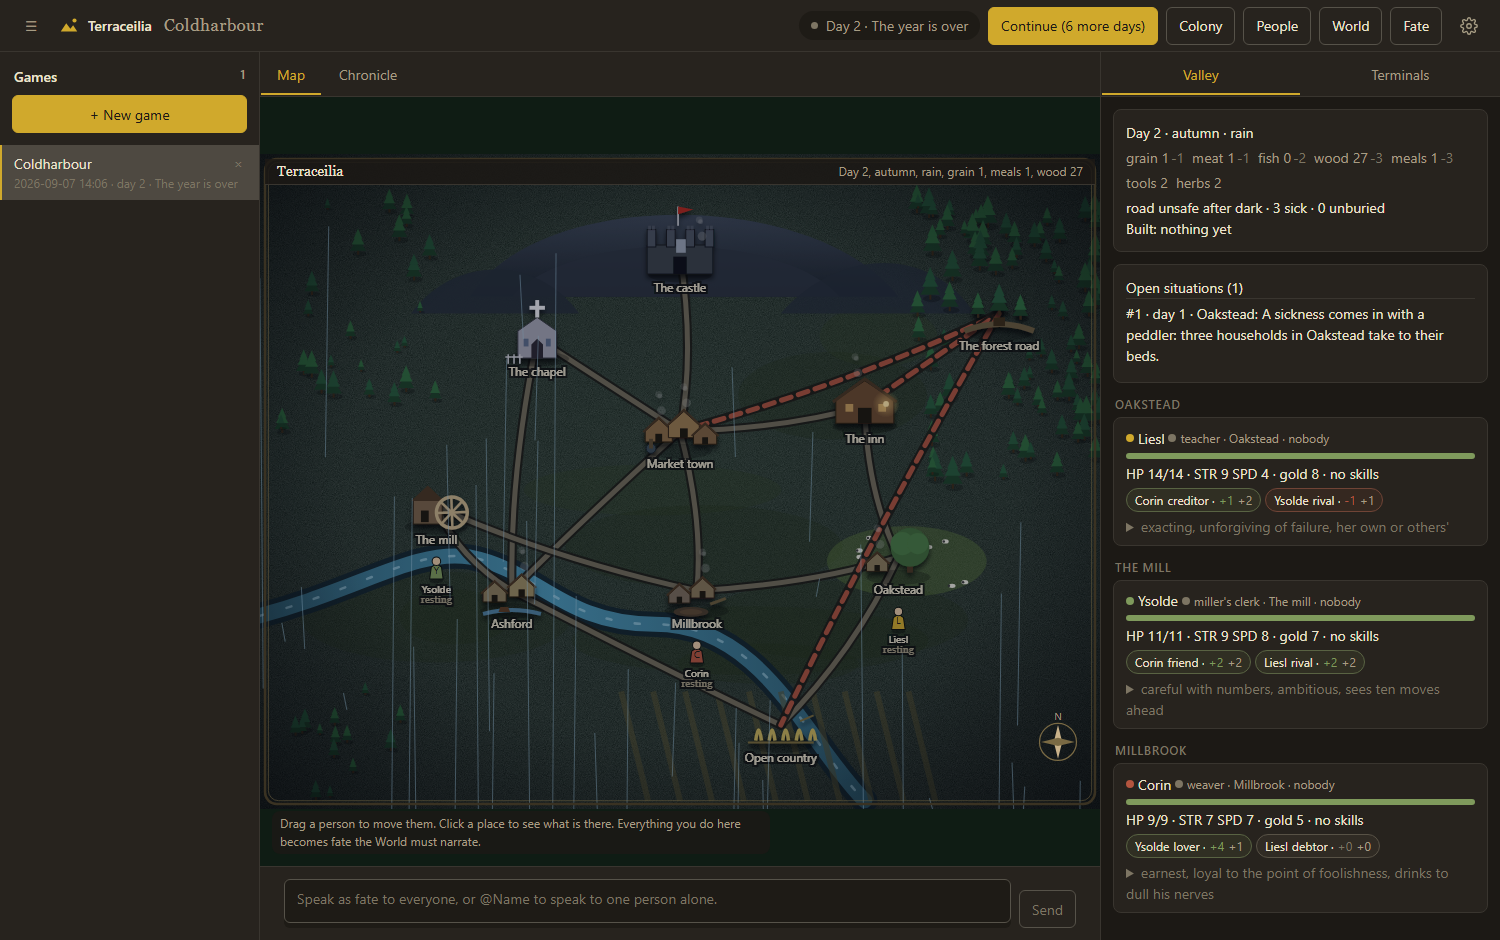
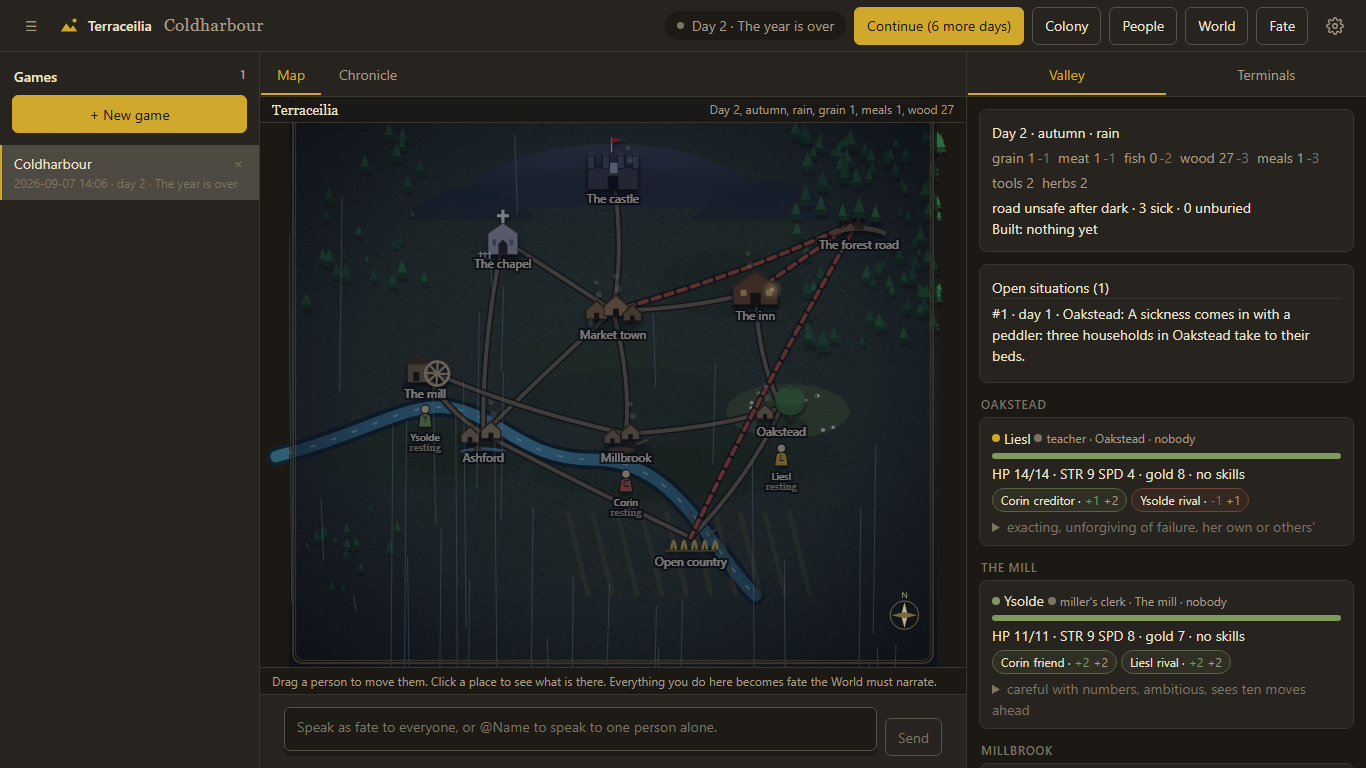
Desktop map fit: the box between the tabs and the fate box less the hint line, the whole map with its lowest people in view, checked in Chrome
The hint is one small line below the map's box, not an overlay on the art, and hidden on the phone, so the box is exactly
what is left between the Map and Chronicle tabs and the fate box. The map's coordinate space now runs on below the lowest
place, and the ground, frame, compass and weather follow it, so the people standing at the southernmost place and their
labels fit inside the box with the rest of the map. The fit is recomputed whenever the box changes size, which covers a
window resize and the rail or the right pane changing width. A headless Chrome check at 1366x768, 1920x1080 and 2560x1440
proves every place label and every token inside the box, the box under the tabs, the hint under the box, the fate box under
the hint, the page not scrolling, and the box widening when the rail closes.

Claude-Session: https://claude.ai/code/session_011m975X5bZNZjxXmbnbh6Db

diff --git a/frontend/map.js b/frontend/map.js
@@ -4,7 +4,9 @@ const MapView=(()=>{
  const NS='http://www.w3.org/2000/svg';const $=id=>document.getElementById(id);
  const esc=s=>String(s??'').replace(/&/g,'&amp;').replace(/</g,'&lt;').replace(/"/g,'&quot;');
  let built=false,drag=null,selected=null,S_=null,tokens={},hover=null,weather={},sky='day';
- const W=1000,H=780;let view={k:1,tx:0,ty:0};let pan=null;const pointers=new Map();let pinch=null;let U=1;
+ // the art is W by AH; the map's box, H tall, runs on below the lowest place so the people standing there and their labels stay in view
+ const W=1000,AH=780;let H=780;let view={k:1,tx:0,ty:0};
+ const contentBottom=m=>Math.max(AH,Math.max(0,...Object.values(m||{}).map(d=>+d.y||0))+200);let pan=null;const pointers=new Map();let pinch=null;let U=1;
  // screen pixels per map unit, as the map is scaled to fit its box; tokens and labels are counter scaled against it
  function unit(){const svg=$('mapSvg');if(!svg)return 1;const r=svg.getBoundingClientRect();if(!r.width||!r.height)return 1;return Math.min(r.width/W,r.height/H)}
  const tokScale=()=>Math.min(2.4,0.85/(view.k*U));
@@ -72,11 +74,11 @@ const MapView=(()=>{
 
  // ---------- terrain
  function terrain(svg,m,s){const g=el('g',{id:'terrain'},svg);const R=rng(11);const st=styleOf(s);
-  el('rect',{x:0,y:0,width:1000,height:780,fill:'url(#ground)'},g);el('rect',{x:0,y:0,width:1000,height:780,fill:'#000',filter:'url(#tex)',opacity:.55},g);
+  el('rect',{x:0,y:0,width:W,height:H,fill:'url(#ground)'},g);el('rect',{x:0,y:0,width:W,height:H,fill:'#000',filter:'url(#tex)',opacity:.55},g);
   const acc=(st.palette||{}).accent||'#5d7a3a';
   for(let i=0;i<9;i++)el('ellipse',{cx:150+R()*700,cy:200+R()*450,rx:60+R()*160,ry:20+R()*40,fill:R()>.5?shade(acc,.55):shade(acc,.4),opacity:.30},g);
   if(s&&s.map_generated)terrainGenerated(g,m,R,st);else terrainBuiltin(g,R);
-  el('rect',{x:0,y:0,width:1000,height:780,fill:'url(#vig)'},g)}
+  el('rect',{x:0,y:0,width:W,height:H,fill:'url(#vig)'},g)}
 
  function terrainBuiltin(g,R){
   el('path',{d:'M250 170 C330 40 660 40 760 170 Z',fill:'url(#hill)',opacity:.95},g);el('path',{d:'M300 170 C370 90 620 90 690 170 Z',fill:'#2c3340',opacity:.9},g);el('path',{d:'M180 190 C230 120 330 120 380 190 Z',fill:'#262d39',opacity:.9},g);el('path',{d:'M620 190 C690 110 800 110 850 190 Z',fill:'#262d39',opacity:.8},g);
@@ -165,6 +167,7 @@ const MapView=(()=>{
 
  // ---------- build
  function buildBase(s){const svg=$('mapSvg');svg.innerHTML='';const m=s.map;const st=styleOf(s);sky=st.sky||'day';
+  H=contentBottom(m);svg.setAttribute('viewBox',`0 0 ${W} ${H}`);
   defs(svg,st);
   // the space around a map that does not fill its box is the map's own ground, not the page
   svg.parentNode.style.background='';                                                          // a letterbox, when there is one, is the page
@@ -187,9 +190,9 @@ const MapView=(()=>{
   el('g',{id:'tokens'},vw);el('g',{id:'weather','clip-path':'url(#mapClip)'},vw);      // rain, snow and fog fall inside the map and nowhere else
   el('rect',{id:'night',x:0,y:0,width:W,height:H,fill:SKY[sky]?SKY[sky].tint:'#0a0f1e',opacity:0,'pointer-events':'none'},vw);
   el('g',{id:'tips'},vw);
-  const fr=el('g',{id:'frame','pointer-events':'none'},svg);el('rect',{x:6,y:6,width:988,height:768,rx:14,fill:'none',stroke:'#3a3222','stroke-width':3},fr);el('rect',{x:10,y:10,width:980,height:760,rx:12,fill:'none',stroke:'#7a6a44','stroke-width':1,opacity:.6},fr);
+  const fr=el('g',{id:'frame','pointer-events':'none'},svg);el('rect',{x:6,y:6,width:988,height:H-12,rx:14,fill:'none',stroke:'#3a3222','stroke-width':3},fr);el('rect',{x:10,y:10,width:980,height:H-20,rx:12,fill:'none',stroke:'#7a6a44','stroke-width':1,opacity:.6},fr);
   const dtl=$('dayTitle');if(dtl)dtl.textContent=s.map_name||'Terraceilia';
-  const cr=el('g',{transform:'translate(950,700)'},fr);el('circle',{r:22,fill:'none',stroke:'#7a6a44','stroke-width':1.5},cr);el('path',{d:'M0 -20 L5 0 L0 20 L-5 0 Z',fill:'#c9b28a'},cr);el('path',{d:'M-20 0 L0 5 L20 0 L0 -5 Z',fill:'#7a6a44'},cr);el('text',{y:-26,'text-anchor':'middle',class:'sub'},cr).textContent='N';
+  const cr=el('g',{transform:`translate(950,${H-80})`},fr);el('circle',{r:22,fill:'none',stroke:'#7a6a44','stroke-width':1.5},cr);el('path',{d:'M0 -20 L5 0 L0 20 L-5 0 Z',fill:'#c9b28a'},cr);el('path',{d:'M-20 0 L0 5 L20 0 L0 -5 Z',fill:'#7a6a44'},cr);el('text',{y:-26,'text-anchor':'middle',class:'sub'},cr).textContent='N';
   if(!svg._viewBound){svg._viewBound=true;bindView(svg);if(window.ResizeObserver)new ResizeObserver(()=>{if(view.user)applyView();else resetView()}).observe(svg.parentNode)}
   svg.addEventListener('click',()=>{if(pan&&pan.moved)return;selected=null;showPlace(S_)});view={k:1,tx:0,ty:0,user:false,homed:false};resetView();built=true;tokens={}}
 
@@ -261,8 +264,8 @@ const MapView=(()=>{
   if(sky==='ash')weather.fog=true;if(sky==='storm')weather.rain=true;
   const w=(s.weather||'');if(/snow|bitter/.test(w))weather.snow=true;if(/rain|storm/.test(w))weather.rain=true;if(w==='storm')weather.night=weather.night||false}
  function renderWeather(){const g=$('weather');if(!g)return;const key=JSON.stringify(weather)+sky;if(g.dataset.key===key)return;g.dataset.key=key;g.innerHTML='';const R=rng(3);
-  if(weather.snow){for(let i=0;i<70;i++){const x=R()*1000,y=R()*780;const f=el('circle',{cx:x,cy:y,r:1.2+R()*1.6,fill:'#fff',opacity:.7},g);el('animate',{attributeName:'cy',values:`${y};${y+780}`,dur:`${9+R()*8}s`,repeatCount:'indefinite'},f);el('animate',{attributeName:'cx',values:`${x};${x+30};${x-10};${x+20}`,dur:`${9+R()*8}s`,repeatCount:'indefinite'},f)}}
-  if(weather.rain){for(let i=0;i<60;i++){const x=R()*1000,y=R()*780;const l=el('line',{x1:x,y1:y,x2:x-4,y2:y+14,stroke:'#9fc7e0','stroke-width':1.2,opacity:.5},g);el('animate',{attributeName:'y1',values:`${y};${y+780}`,dur:`${1.2+R()*.8}s`,repeatCount:'indefinite'},l);el('animate',{attributeName:'y2',values:`${y+14};${y+794}`,dur:`${1.2+R()*.8}s`,repeatCount:'indefinite'},l)}}
+  if(weather.snow){for(let i=0;i<70;i++){const x=R()*1000,y=R()*H;const f=el('circle',{cx:x,cy:y,r:1.2+R()*1.6,fill:'#fff',opacity:.7},g);el('animate',{attributeName:'cy',values:`${y};${y+H}`,dur:`${9+R()*8}s`,repeatCount:'indefinite'},f);el('animate',{attributeName:'cx',values:`${x};${x+30};${x-10};${x+20}`,dur:`${9+R()*8}s`,repeatCount:'indefinite'},f)}}
+  if(weather.rain){for(let i=0;i<60;i++){const x=R()*1000,y=R()*H;const l=el('line',{x1:x,y1:y,x2:x-4,y2:y+14,stroke:'#9fc7e0','stroke-width':1.2,opacity:.5},g);el('animate',{attributeName:'y1',values:`${y};${y+H}`,dur:`${1.2+R()*.8}s`,repeatCount:'indefinite'},l);el('animate',{attributeName:'y2',values:`${y+14};${y+H+14}`,dur:`${1.2+R()*.8}s`,repeatCount:'indefinite'},l)}}
   if(weather.fog){const col=sky==='ash'?'#c9bda8':'#cfd8d6';for(let i=0;i<8;i++){const y=100+R()*600;const c=el('ellipse',{cx:R()*1000,cy:y,rx:180+R()*160,ry:24+R()*20,fill:col,opacity:sky==='ash'?.14:.10},g);el('animate',{attributeName:'cx',values:`${-200};${1200}`,dur:`${40+R()*30}s`,repeatCount:'indefinite'},c)}}
   if(weather.wolves){const m=wolfPlace(S_.map);if(m)for(let i=0;i<3;i++){const w=el('g',{transform:`translate(${m.x-60+i*50},${m.y+40})`},g);el('path',{d:'M-8 4 L-8 -2 L-3 -6 L6 -6 L10 -9 L12 -4 L8 -2 L8 4 Z',fill:'#5a5a62'},w);el('circle',{cx:9,cy:-6,r:1,fill:'#ff4d4d'},w);el('animateTransform',{attributeName:'transform',type:'translate',values:`${m.x-60+i*50} ${m.y+40};${m.x-40+i*50} ${m.y+46};${m.x-60+i*50} ${m.y+40}`,dur:`${3+i}s`,repeatCount:'indefinite'},w)}}}
  function renderFire(s){const fires=s.fires||{};document.querySelectorAll('.node').forEach(n=>{const fx=n.querySelector('.fx');fx.innerHTML='';const pl=n.dataset.place;if(!s.map[pl])return;

diff --git a/tests/map_fit_check.js b/tests/map_fit_check.js
@@ -1,0 +1,43 @@
+// Opens the served app in a private headless Chrome at each size given and reports, as one JSON line per size, whether every
+// place label and every token sits inside the map's box, the box sits between the tabs and the fate box with the hint line
+// below it, and the page does not scroll. Run by tests/test_desktop_fit.py.
+//   node map_fit_check.js <url> <chrome.exe> 1366x768 1920x1080 ...
+const {spawn} = require('child_process');
+const [url, chromePath, ...sizes] = process.argv.slice(2);
+const sleep = ms => new Promise(r => setTimeout(r, ms));
+const CHECK = `(()=>{
+  const R=e=>e.getBoundingClientRect();const box=R(document.getElementById('map'));
+  const inside=r=>r.width>0&&r.left>=box.left-0.5&&r.right<=box.right+0.5&&r.top>=box.top-0.5&&r.bottom<=box.bottom+0.5;
+  const labels=[...document.querySelectorAll('.node text.nm')].map(e=>({n:e.textContent,ok:inside(R(e))}));
+  const toks=[...document.querySelectorAll('.tok')].map(e=>({n:e.dataset.name,ok:inside(R(e))}));
+  const tabs=R(document.getElementById('centerTabs')),hint=R(document.getElementById('mapHint')),fate=R(document.getElementById('composer'));
+  const de=document.documentElement;
+  return JSON.stringify({w:innerWidth,h:innerHeight,box:[box.top,box.bottom,box.left,box.right],tabsBottom:tabs.bottom,hint:[hint.top,hint.bottom,hint.height,getComputedStyle(document.getElementById('mapHint')).display],fateTop:fate.top,
+    labels,toks,badLabels:labels.filter(x=>!x.ok).map(x=>x.n),badToks:toks.filter(x=>!x.ok).map(x=>x.n),
+    scroll:[de.scrollWidth,de.clientWidth,de.scrollHeight,de.clientHeight,scrollX,scrollY],view:MapView.view().k})})()`;
+(async () => {
+  for (const sz of sizes) {
+    const [w, h] = sz.split('x').map(Number); const port = 9400 + Math.floor(Math.random() * 300);
+    const chrome = spawn(chromePath, ['--headless=new', '--disable-gpu', '--hide-scrollbars', `--remote-debugging-port=${port}`, '--no-first-run', '--no-default-browser-check',
+      `--user-data-dir=${process.env.TEMP || '/tmp'}/terra-fitcheck-${process.pid}-${w}`, `--window-size=${w},${h}`, 'about:blank'], {stdio: 'ignore'});
+    try {
+      let list = null;
+      for (let i = 0; i < 80 && !list; i++) { try { list = await (await fetch(`http://127.0.0.1:${port}/json`)).json(); } catch (e) { await sleep(250); } }
+      if (!list) throw new Error('chrome did not open its debugging port');
+      const page = list.find(t => t.type === 'page'); const ws = new WebSocket(page.webSocketDebuggerUrl);
+      let id = 0; const pending = {};
+      ws.onmessage = e => { const m = JSON.parse(e.data); if (m.id && pending[m.id]) { pending[m.id](m.result || m.error); delete pending[m.id]; } };
+      const send = (method, params = {}) => new Promise(r => { const i = ++id; pending[i] = r; ws.send(JSON.stringify({id: i, method, params})); });
+      await new Promise(r => ws.onopen = r);
+      await send('Emulation.setDeviceMetricsOverride', {width: w, height: h, deviceScaleFactor: 1, mobile: false});
+      await send('Runtime.enable'); await send('Page.enable'); await send('Page.navigate', {url}); await sleep(5000);
+      const ev = async () => { const r = await send('Runtime.evaluate', {expression: CHECK, returnByValue: true}); return JSON.parse(r.result.value); };
+      const first = await ev();
+      // the left rail closes: the box widens and the fit is recomputed
+      await send('Runtime.evaluate', {expression: "document.getElementById('railBtn').click();'ok'", returnByValue: true}); await sleep(700);
+      const second = await ev();
+      console.log(JSON.stringify({size: sz, open: first, railClosed: second}));
+      ws.close();
+    } finally { chrome.kill(); }
+  }
+})().catch(e => { console.error(e); process.exit(1); });

diff --git a/frontend/style.css b/frontend/style.css
@@ -126,8 +126,11 @@ table.st{border-collapse:collapse;font-size:var(--fs-b);margin-top:var(--u)}tabl
 .tok circle.ring{fill:none;stroke-width:2;opacity:0}.tok.thinking circle.ring{opacity:1;animation:tring 1.4s ease-out infinite}@keyframes tring{0%{r:12;opacity:.9}100%{r:26;opacity:0}}
 .tok text.ini{fill:var(--bg);font:400 var(--fs-s) Inter,system-ui,sans-serif;pointer-events:none}.tok text.lbl{fill:var(--ink);font:var(--fs-s) Inter,system-ui,sans-serif;pointer-events:none}
 .tip rect{fill:var(--panel);stroke:var(--edge)}.tip text{fill:var(--ink);font:var(--fs-s) Inter,system-ui,sans-serif}
-#mapHud{position:absolute;bottom:12px;left:12px;right:330px;display:flex;gap:var(--u);align-items:center;pointer-events:none}#mapHud>*{pointer-events:auto}
+#mapHud{position:absolute;bottom:12px;left:12px;right:330px;display:flex;gap:var(--u);align-items:center;justify-content:flex-end;pointer-events:none}#mapHud>*{pointer-events:auto}
 #mapHud .note{background:color-mix(in srgb,var(--bg) 80%,transparent);padding:calc(var(--u) / 2) var(--u);border-radius:8px}
+/* the hint is one small line below the map's box, never over the art; the box is what is left between the tabs and the fate box */
+#mapHint{display:none;flex:0 0 auto;padding:calc(var(--u) / 2) calc(var(--u) * 1.5);font-size:var(--fs-s);color:var(--muted);border-top:1px solid var(--line);white-space:nowrap;overflow:hidden;text-overflow:ellipsis}
+#map.on+#mapHint{display:block}
 #placePanel{position:absolute;right:12px;bottom:12px;width:300px;background:var(--panel);border:1px solid var(--edge);border-radius:12px;padding:calc(var(--u) * 1.5);display:none;font-size:var(--fs-b)}#placePanel.open{display:block}
 #placePanel h3{margin:0 0 calc(var(--u) / 2);font-size:var(--fs-b);display:flex;justify-content:space-between;align-items:center}#placePanel h3 button{height:26px;width:26px;padding:0}
 #placePanel .fx{display:flex;justify-content:space-between;align-items:center;padding:calc(var(--u) / 2) 0;border-top:1px solid var(--line)}#placePanel .fx.gone span{text-decoration:line-through;color:var(--faint)}
@@ -251,7 +254,7 @@ table.st{border-collapse:collapse;font-size:var(--fs-b);margin-top:var(--u)}tabl
  #rail.on{display:flex;flex:1 1 auto;min-height:0;border:0}#side.on{display:flex;flex:1 1 auto;min-height:0;border:0}#chron.on{display:block;flex:1 1 auto;min-height:0;overflow:auto}#setup.on{display:block;flex:1 1 auto;min-height:0;overflow:auto}
  .inner{width:calc(100% - 24px)}.two,.three{grid-template-columns:1fr}
  #tabs{display:flex;flex:0 0 56px;background:var(--panel);border-top:1px solid var(--line)}#tabs button{flex:1;height:56px;font-size:var(--fs-b)}
- #mapHud{right:12px;bottom:8px}#mapHud .note{font-size:var(--fs-s)}#mapHud .note:first-child{display:none}
+ #mapHud{right:12px;bottom:8px;left:12px}#mapHud .note{font-size:var(--fs-s)}#mapHint,#map.on+#mapHint{display:none}
  .sheetwrap{justify-content:stretch}.sheetwrap .panel{width:100%;max-width:100vw;padding:calc(var(--u) * 2)}#gearBtn{display:inline-grid}
  #placePanel{left:12px;right:12px;width:auto}
  #peoPick{display:block}.pg,.pg3,.pg4,.hgrid,.dgrid,.dutylist{grid-template-columns:1fr}.tie{grid-template-columns:1fr 1fr;gap:var(--u)}

diff --git a/frontend/index.html b/frontend/index.html
@@ -51,8 +51,9 @@
  </div></section>
 
  <section id="map"><div id="making"><div><div class="spin"></div><b id="makingHead">The World is making the valley</b><div class="note" style="margin-top:6px" id="makingNote">Rolling twenty lives, secrets, and grudges. This takes a minute or two. Watch the World's terminal on the right.</div></div></div><svg id="mapSvg" viewBox="0 0 1000 780" preserveAspectRatio="xMidYMid meet"></svg><div id="dayBar"><span id="dayTitle"></span><span id="dayText"></span></div>
-  <div id="mapHud"><span class="note">Drag a person to move them. Click a place to see what is there. Everything you do here becomes fate the World must narrate.</span><span class="note" id="godNote" style="margin-left:auto;display:none"></span><button type="button" class="btn" id="mapReset" style="display:none">Reset view</button></div>
+  <div id="mapHud"><span class="note" id="godNote" style="margin-left:auto;display:none"></span><button type="button" class="btn" id="mapReset" style="display:none">Reset view</button></div>
   <div id="placePanel"><h3><span id="ppName"></span><button class="icon" id="ppClose" aria-label="Close">&#10005;</button></h3><div id="ppDesc" class="note"></div><div id="ppFx"></div><div id="ppPres" class="note" style="margin-top:6px"></div><div id="ppWho" class="note" style="margin-top:6px"></div><div class="row" style="margin-top:10px"><button id="ppFire" class="danger solid">Set fire</button></div></div></section>
+ <div id="mapHint">Drag a person to move them. Click a place to see what is there. Everything you do here becomes fate the World must narrate.</div>
 
  <section id="chron"><div class="inner"><div class="empty" id="chronEmpty">The chronicle is empty. Press Start.</div><div id="msgs"></div><div class="typing" id="typing" style="display:none"></div></div></section>
  <div id="composer"><div class="inner"><div id="ac" role="listbox"></div><div class="tawrap"><div id="hl" aria-hidden="true"></div><textarea id="sayText" placeholder="Speak as fate to everyone, or @Name to speak to one person alone."></textarea></div><button id="sayBtn" class="primary">Send</button></div></div>

diff --git a/tests/test_desktop_fit.py b/tests/test_desktop_fit.py
@@ -1,0 +1,77 @@
+"""Desktop map fit, checked in a real headless Chrome: at 1366x768, 1920x1080 and 2560x1440 every place label and every token
+is inside the map's box, the box sits between the tabs and the fate box with the hint line below it, and the page does not
+scroll. The check also closes the left rail to see the fit recomputed. Skipped where Chrome or node is not installed.
+Run from the repo root:  python -m pytest tests -q"""
+from __future__ import annotations
+import json, os, random, shutil, subprocess, sys, tempfile, threading, unittest
+from http.server import ThreadingHTTPServer
+from pathlib import Path
+
+os.environ["TERRACEILIA_NO_TELEGRAM"] = "1"
+
+ROOT = Path(__file__).resolve().parent.parent
+sys.path.insert(0, str(ROOT / "backend"))
+import connect, engine, game, server  # noqa: E402
+
+CHROME = Path(os.environ.get("TERRA_CHROME") or r"C:\Program Files\Google\Chrome\Application\chrome.exe")
+SIZES = ["1366x768", "1920x1080", "2560x1440"]
+JS = (ROOT / "frontend" / "map.js").read_text(encoding="utf-8")
+CSS = (ROOT / "frontend" / "style.css").read_text(encoding="utf-8")
+HTML = (ROOT / "frontend" / "index.html").read_text(encoding="utf-8")
+
+
+def valley() -> engine.World:
+    """Four people, one of them at the southernmost place, so the lowest token is the one that matters."""
+    w = engine.World(); rng = random.Random(3); places = list(w.map); lowest = max(w.map, key=lambda p: w.map[p]["y"])
+    for i in range(4):
+        nm = ["Aldous", "Bett", "Cuthbert", "Dimity"][i]; c = engine.roll_character(nm, i + 1, rng, places); c["trade"] = "villager"
+        c["location"] = c["home"] = lowest if i < 2 else places[i]; c["voice"] = engine.roll_voice(c, rng); w.characters[nm] = c
+    w.ledger = engine.starting_ledger(4, len(w.map)); w.seed_places(); w.created = True; w.day = 2; w.seed_duties(rng); w.assign_day(rng)
+    return w
+
+
+class DesktopFit(unittest.TestCase):
+    def test_the_hint_is_a_line_below_the_box_and_the_box_is_what_is_left(self) -> None:
+        self.assertIn('<div id="mapHint">Drag a person to move them.', HTML); self.assertNotIn('<span class="note">Drag a person', HTML, "not an overlay on the art")
+        self.assertIn("#map.on+#mapHint{display:block}", CSS); self.assertIn("#mapHint,#map.on+#mapHint{display:none}", CSS[CSS.index("@media (max-width:820px)"):], "hidden on the phone")
+        self.assertIn("#mapHint{display:none;flex:0 0 auto;", CSS, "one line in the column, so the map's box is what is left above it")
+        self.assertIn("const contentBottom=m=>Math.max(AH,Math.max(0,...Object.values(m||{}).map(d=>+d.y||0))+200);", JS, "the box runs on below the lowest place for the people standing there")
+        self.assertIn("H=contentBottom(m);svg.setAttribute('viewBox',`0 0 ${W} ${H}`);", JS)
+        self.assertIn("new ResizeObserver(()=>{if(view.user)applyView();else resetView()})", JS, "the fit is recomputed whenever the box changes size")
+
+    def test_in_headless_chrome_at_three_sizes_everything_is_inside_the_box_and_the_page_does_not_scroll(self) -> None:
+        if not CHROME.exists() or not shutil.which("node"): self.skipTest("Chrome or node is not installed here")
+        tmp = Path(tempfile.mkdtemp(prefix="terra-fit-")); engine.GAMES = tmp; game.GAMES = tmp; server.GAMES = tmp
+        st, rv = connect.start, server.refresh_versions; connect.start = lambda: None; server.refresh_versions = lambda: None
+        try:
+            app = server.App(); g = app.run.g; g.draft = False; g.dir = tmp / g.id; g.world = valley(); w = g.world; g.title = "Fit check"
+            g.seats = [{"name": "World", "provider": "Claude Code", "model": "x", "color": "#d0a92c"}] + [{"name": n, "provider": "Claude Code", "model": "x", "color": "#7f9a5c"} for n in w.characters]
+            app.run._sync_terms(); g.save()
+            srv = ThreadingHTTPServer(("127.0.0.1", 0), server.make_handler(app, "fit")); port = srv.server_address[1]
+            th = threading.Thread(target=srv.serve_forever, daemon=True); th.start()
+            try:
+                r = subprocess.run(["node", str(ROOT / "tests" / "map_fit_check.js"), f"http://127.0.0.1:{port}/?token=fit", str(CHROME)] + SIZES, capture_output=True, text=True, timeout=240)
+            finally:
+                srv.shutdown(); srv.server_close()
+            self.assertEqual(r.returncode, 0, r.stderr)
+            rows = [json.loads(ln) for ln in r.stdout.splitlines() if ln.startswith("{")]
+            self.assertEqual([x["size"] for x in rows], SIZES)
+            lowest = max(w.map, key=lambda p: w.map[p]["y"])
+            for row in rows:
+                for state in ("open", "railClosed"):
+                    x = row[state]; tag = f"{row['size']} {state}"
+                    self.assertEqual(x["badLabels"], [], f"{tag}: place labels outside the box"); self.assertEqual(x["badToks"], [], f"{tag}: tokens outside the box")
+                    self.assertIn(lowest, [l["n"] for l in x["labels"]]); self.assertEqual(len(x["toks"]), 4, tag)
+                    self.assertAlmostEqual(x["box"][0], x["tabsBottom"], delta=1.5, msg=f"{tag}: the box starts under the tabs")
+                    self.assertAlmostEqual(x["box"][1], x["hint"][0], delta=1.5, msg=f"{tag}: the hint line starts where the box ends")
+                    self.assertAlmostEqual(x["hint"][1], x["fateTop"], delta=1.5, msg=f"{tag}: the fate box starts under the hint line")
+                    self.assertEqual(x["hint"][3], "block", tag); self.assertGreater(x["hint"][2], 10, tag); self.assertLess(x["hint"][2], 40, f"{tag}: one small line")
+                    sw, cw, sh, ch, sx, sy = x["scroll"]; self.assertLessEqual(sw, cw + 1, f"{tag}: the page scrolls sideways"); self.assertLessEqual(sh, ch + 1, f"{tag}: the page scrolls"); self.assertEqual((sx, sy), (0, 0))
+                    self.assertAlmostEqual(x["view"], 1, delta=0.001, msg=f"{tag}: the desktop keeps the fit")
+                self.assertGreater(row["railClosed"]["box"][3] - row["railClosed"]["box"][2], row["open"]["box"][3] - row["open"]["box"][2], f"{row['size']}: closing the rail widened the box")
+        finally:
+            connect.start, server.refresh_versions = st, rv; shutil.rmtree(tmp, ignore_errors=True)
+
+
+if __name__ == "__main__":
+    unittest.main()
